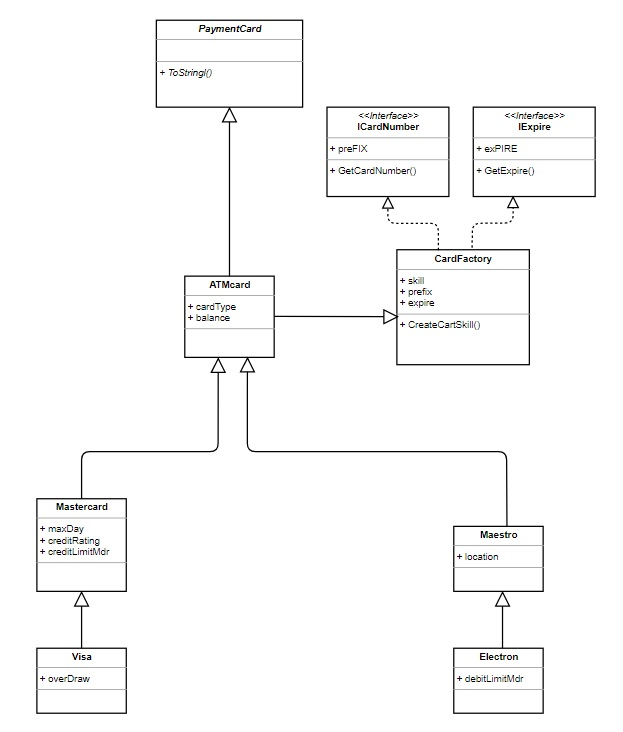
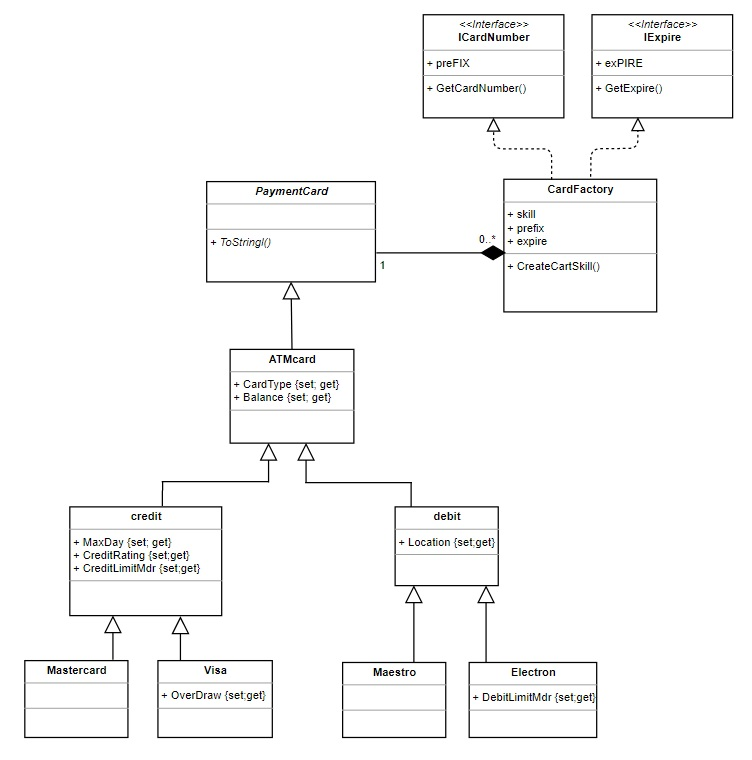
ekstra kommentar tilføjet

diff --git a/MyBanker/Cards/Mastercard.cs b/MyBanker/Cards/Mastercard.cs
@@ -5,25 +5,18 @@ using Microsoft.VisualBasic;
 
 namespace MyBanker
 {
-    class Mastercard : ATMcard
+    // This class represents mastercard!
+    class Mastercard : Credit
     {
         // parametrized constructor declaration!
-        public Mastercard (string type, string bal, string maxD, string rating, int credit) : base (type, bal)
+        public Mastercard (string type, string bal, string maxD, string rating, int credit) : base (type, bal, maxD, rating, credit)
         {
-            // initialization!
-            maxDay = maxD;
-            creditRating = rating;
-            creditLimitMdr = credit;
-        }
 
-        // auto implemented properties with get & set accessor  -  Encapsulation!
-        public string maxDay { get; set; }
-        public string creditRating { get; set; }
-        public int creditLimitMdr { get; set; }
+        }
 
         public override string ToString()
         {
-            return base.ToString() + "\ncredit rating: " + creditRating + "\nmax amount: " + maxDay + "\ncredit limit (DKK) pr. mdr: " + creditLimitMdr;
+            return base.ToString();
         }
     }
 }

diff --git a/MyBanker/Cards/Debit.cs b/MyBanker/Cards/Debit.cs
@@ -4,21 +4,22 @@ using System.Text;
 
 namespace MyBanker
 {
-    // This class represent electron!
-    class Electron : Debit
+    // This class represents debit!
+    class Debit : ATMcard
     {
         // parametrized constructor declaration!
-        public Electron (string type, string bal, string loca, int debit) : base(type, bal, loca)
+        public Debit (string type, string bal, string loca) : base(type, bal)
         {
             // initialization!
-            DebitLimitMdr = debit;
+            Location = loca;
         }
 
         // auto implemented properties with get & set accessor  -  Encapsulation!
-        public int DebitLimitMdr { get; set; }
+        public string Location { get; set; }
+
         public override string ToString()
         {
-            return base.ToString() + "\nthis card have a debit limit (DKK) pr. mdr.: " + DebitLimitMdr;
+            return base.ToString() + "\nthis card can be use: " + Location;
         }
     }
 }

diff --git a/MyBanker/Cards/Credit.cs b/MyBanker/Cards/Credit.cs
@@ -1,0 +1,29 @@
+using System;
+using System.Collections.Generic;
+using System.Text;
+
+namespace MyBanker
+{
+    // This class represents credit!
+    class Credit : ATMcard
+    {
+        // parametrized constructor declaration!
+        public Credit (string type, string bal, string maxD, string rating, int credit) : base(type, bal)
+        {
+            // initialization!
+            MaxDay = maxD;
+            CreditRating = rating;
+            CreditLimitMdr = credit;
+        }
+
+        // auto implemented properties with get & set accessor  -  Encapsulation!
+        public string MaxDay { get; set; }
+        public string CreditRating { get; set; }
+        public int CreditLimitMdr { get; set; }
+
+        public override string ToString()
+        {
+            return base.ToString() + "\ncredit rating: " + CreditRating + "\nmax amount: " + MaxDay + "\ncredit limit (DKK) pr. mdr: " + CreditLimitMdr;
+        }
+    }
+}

diff --git a/MyBanker/Cards/ATMcard.cs b/MyBanker/Cards/ATMcard.cs
@@ -6,24 +6,24 @@ using System.Text;
 
 namespace MyBanker
 {
+    // This class represents atmcard!
     class ATMcard : PaymentCard
     {
         // parametrized constructor declaration!
         public ATMcard (string type, string bal)
         {
             // initialization!
-            cardType = type;
-            balance = bal;
+            CardType = type;
+            Balance = bal;
         }
 
         // auto implemented properties with get & set accessor  -  Encapsulation!
-        public string cardType { get; set; }
-        public string balance { get;  set; }
+        public string CardType { get; set; }
+        public string Balance { get;  set; }
 
         public override string ToString()
         {
-            return "cardtype: " + cardType + "\nbalance calulated: " + balance;
+            return "cardtype: " + CardType + "\nbalance calulated: " + Balance;
         }
     }
 }
-ø

diff --git a/MyBanker/Cards/Visa.cs b/MyBanker/Cards/Visa.cs
@@ -4,21 +4,22 @@ using System.Text;
 
 namespace MyBanker
 {
-    class Visa : Mastercard
+    // This class represents visa!
+    class Visa : Credit
     {
         // parametrized constructor declaration!
         public Visa (string type, string bal, string maxD, string rating, int credit, int overD) : base(type, bal, maxD, rating, credit)
         {
             // initialization!
-            overDraw = overD;
+            OverDraw = overD;
         }
 
         // auto implemented properties with get & set accessor  -  Encapsulation!
-        public int overDraw { get; set; }
+        public int OverDraw { get; set; }
 
         public override string ToString()
         {
-            return base.ToString() + "\nallowed overdraw: " + overDraw;
+            return base.ToString() + "\nallowed overdraw: " + OverDraw;
         }
     }
 }

diff --git a/MyBanker/Cards/Maestro.cs b/MyBanker/Cards/Maestro.cs
@@ -4,21 +4,18 @@ using System.Text;
 
 namespace MyBanker
 {
-    class Maestro : ATMcard 
+    // This class represents maestro!
+    class Maestro : Debit
     { 
         // parametrized constructor declaration!
-        public Maestro (string type, string bal, string loca) : base (type, bal)
+        public Maestro (string type, string bal, string loca) : base (type, bal, loca)
         {
-        // initialization!
-        location = loca;
+ 
         }
-
-         // auto implemented properties with get & set accessor  -  Encapsulation!
-         public string location { get; set; }
 
          public override string ToString()
          {
-            return base.ToString() + "\nthis card can be use: " + location;
+            return base.ToString();
          }
     }
 }

diff --git a/MyBanker/Cards/PaymentCard.cs b/MyBanker/Cards/PaymentCard.cs
@@ -4,8 +4,10 @@ using System.Text;
 
 namespace MyBanker
 {
+    // This abstract class represents paymentcard!
     public abstract class PaymentCard
     {
+        // formatting method - it converts an object to its string representation so that it is suitable for display!
         public abstract override string ToString();
     }
 }

diff --git a/MyBanker/Factory/CardFactory.cs b/MyBanker/Factory/CardFactory.cs
@@ -20,6 +20,8 @@ namespace MyBanker
                     return null;
             }
         }
+
+        // The body of interface methods is provided here!
         public string GetCardNumber(string prefix)
         {
             Random randNum = new Random();

diff --git a/MyBanker/Interfaces/ICardNumber.cs b/MyBanker/Interfaces/ICardNumber.cs
@@ -4,8 +4,10 @@ using System.Text;
 
 namespace MyBanker
 {
+    // This interface represents cardnumber!
     interface ICardNumber
     {
+        // abstract method with empty body!
         string GetCardNumber(string preFIX);
     }
 }

diff --git a/MyBanker/Interfaces/IExpire.cs b/MyBanker/Interfaces/IExpire.cs
@@ -4,8 +4,10 @@ using System.Text;
 
 namespace MyBanker
 {
+    // This interface represents expire!
     interface IExpire
     {
+        // abstract method with empty body!
         string GetExpire(string exPIRE);
     }
 }
